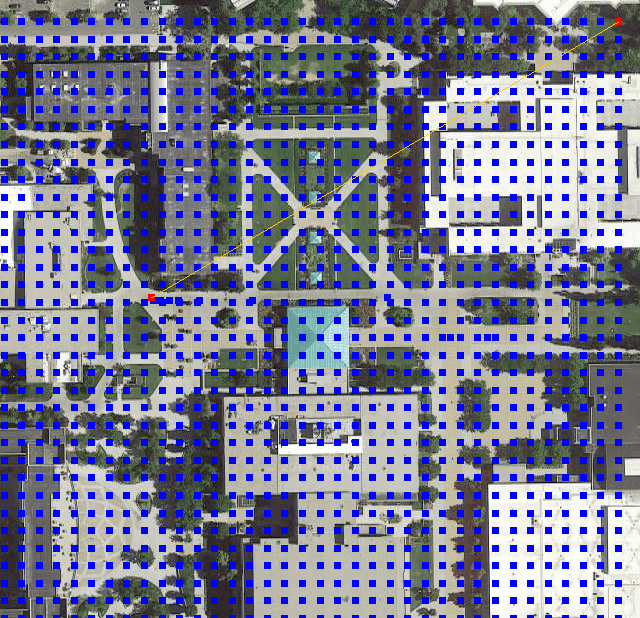
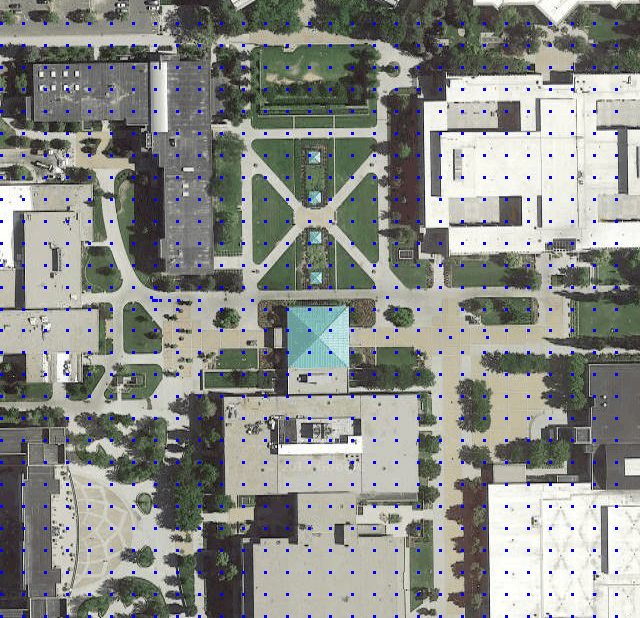
jij

Changed region(s): [[0.0, 0.0307, 0.9688, 1.0]]

diff --git a/src/server/processing/ColorOperations.java b/src/server/processing/ColorOperations.java
@@ -108,6 +108,9 @@ public class ColorOperations {
 		int currRGB;
 		do {
 			currRGB = orig.getRGB(currX++, currY++);
+			if (currRGB == Config.MAPS_BUILDING_RGB)
+				return;
+			
 		} while (currRGB == Config.MAPS_BACKGROUND_RGB || currRGB == Config.MAPS_GRASS_RGB
 				|| currRGB == Config.MAPS_NORMALPATH_RGB);
 		currX--;
@@ -142,7 +145,7 @@ public class ColorOperations {
 							continue;
 					}
 					neighborRGB = orig.getRGB(currX, y);
-					if (Tools.colorIsCloseEnough(neighborRGB, seedRGB, Config.FILLCOLOR_RGB_TOLERANCE)) {
+					if (Tools.colorIsProbablyNotBuilding(neighborRGB, Config.FILLCOLOR_RGB_TOLERANCE)) {
 						tolerated = true;
 						break;
 					}
@@ -171,7 +174,7 @@ public class ColorOperations {
 							continue;
 					}
 					neighborRGB = orig.getRGB(currX, y);
-					if (Tools.colorIsCloseEnough(neighborRGB, seedRGB, Config.FILLCOLOR_RGB_TOLERANCE)) {
+					if (Tools.colorIsProbablyNotBuilding(neighborRGB, Config.FILLCOLOR_RGB_TOLERANCE)) {
 						tolerated = true;
 						break;
 					}
@@ -200,7 +203,7 @@ public class ColorOperations {
 							continue;
 					}
 					neighborRGB = orig.getRGB(x, currY);
-					if (Tools.colorIsCloseEnough(neighborRGB, seedRGB, Config.FILLCOLOR_RGB_TOLERANCE)) {
+					if (Tools.colorIsProbablyNotBuilding(neighborRGB, Config.FILLCOLOR_RGB_TOLERANCE)) {
 						tolerated = true;
 						break;
 					}
@@ -228,7 +231,7 @@ public class ColorOperations {
 							continue;
 					}
 					neighborRGB = orig.getRGB(x, currY);
-					if (Tools.colorIsCloseEnough(neighborRGB, seedRGB, Config.FILLCOLOR_RGB_TOLERANCE)) {
+					if (Tools.colorIsProbablyNotBuilding(neighborRGB, Config.FILLCOLOR_RGB_TOLERANCE)) {
 						tolerated = true;
 						break;
 					}

diff --git a/tests/server/GraphTests.java b/tests/server/GraphTests.java
@@ -2,6 +2,8 @@ package server;
 
 import java.awt.Color;
 import java.awt.image.BufferedImage;
+import java.io.FileInputStream;
+import java.io.FileNotFoundException;
 import java.util.ArrayList;
 import java.util.List;
 
@@ -11,12 +13,16 @@ import org.junit.Before;
 import org.junit.BeforeClass;
 import org.junit.Test;
 
+import com.google.firebase.FirebaseApp;
+import com.google.firebase.FirebaseOptions;
+
 import generic.Config;
 import generic.Graph;
 import generic.GraphTools;
 import generic.Node;
 import generic.Tools;
 import generic.UserPrefs;
+import generic.objects.Building;
 import googlemaps.LatLng;
 
 public class GraphTests {
@@ -105,7 +111,7 @@ public class GraphTests {
 	}
 
 	@Test
-	public void uniformNodeGenerationTest() {
+	public void uniformNodeGenerationTest() throws FileNotFoundException {
 		LatLng start = new LatLng(40.249403, -111.650154);
 		LatLng end = new LatLng(40.249218, -111.648338);
 		LatLng center = Tools.getCenter(start, end);
@@ -146,11 +152,13 @@ public class GraphTests {
 		List<Integer> path = GraphTools.dijkstra(g.getStartIndex(), g, g.getEndIndex());
 		List<Node> nodesToDraw = g.getNodesFromPath(path);
 
-		GraphTools.DrawLines(img, nodesToDraw, Color.BLUE, 3, southwest, northeast, Color.ORANGE, g);
+		//GraphTools.DrawLines(img, nodesToDraw, Color.BLUE, 3, southwest, northeast, Color.ORANGE, g);
 
 		img = Tools.ClipLogo(img);
 
 		Tools.WriteImage(img, "testImages/dTest3.png");
+		
+	
 	}
 
 }

diff --git a/src/generic/Config.java b/src/generic/Config.java
@@ -7,10 +7,16 @@ public class Config {
 	public static final String DIRECTIONS_KEY = "AIzaSyB7zQeZeCZFWzwupwYjbioQYldZkdF3oPk";
 	public static final String STATICMAP_KEY = "AIzaSyBrlZw4DeO4UtdBQDmSEM9rD6gSkpF3F1g";
 	public static final String ELEVATION_KEY = "AIzaSyCrDlO2Sy--Cwg8P5LSsRKbHaMZK3C9GHc";
-	public static final int MAPS_BACKGROUND_RGB = -1776417; //TAN
+	public static final String GEOCODING_KEY = "AIzaSyBMX_txZDSZo8tHyvMBWl_AIFWCKWL1DNs";
+	
+	//Colors can be made as a hex (ARGB, where A is the alpha channel (always ff ) )
+		
+	
+	public static final int MAPS_BACKGROUND_RGB = -1776417; //GRAY
 	public static final int MAPS_GRASS_RGB = -3479901; //GREEN
-	public static final int MAPS_NORMALPATH_RGB = -1; //WHITE
-	public static final int MAPS_BUILDING_RGB = -65536; //RED
+	public static final int MAPS_NORMALPATH_RGB = 0xff000000; //BLACK
+	public static final int MAPS_BUILDING_RGB = 0xffff0000; //RED
+	public static final int MAPS_WEIRD_OLIVE_PATH = 0xffB7B393; //A WEIRD OLIVE COLOR
 	public static final int FILLCOLOR_PIXELDIM_TOLERANCE = 7;
 	public static final int FILLCOLOR_MODE_RADIUS = 2;
 	public static final int FILLCOLOR_RGB_TOLERANCE = 3;

diff --git a/src/generic/Tools.java b/src/generic/Tools.java
@@ -152,6 +152,10 @@ public class Tools {
 		BufferedImage result = cco.filter( img, null );
 		return result;
 	}
+	public static boolean colorIsProbablyNotBuilding(int rgb, int tolerance)
+	{
+		return colorIsCloseEnough(rgb, Config.MAPS_WEIRD_OLIVE_PATH, tolerance) || colorIsCloseEnough(rgb, Config.MAPS_BACKGROUND_RGB, tolerance); 
+	}
 	public static boolean colorIsCloseEnough(int rgb1, int rgb2, int tolerance)
 	{
 		return colorIsCloseEnough(rgb1, rgb2, tolerance, tolerance, tolerance);
